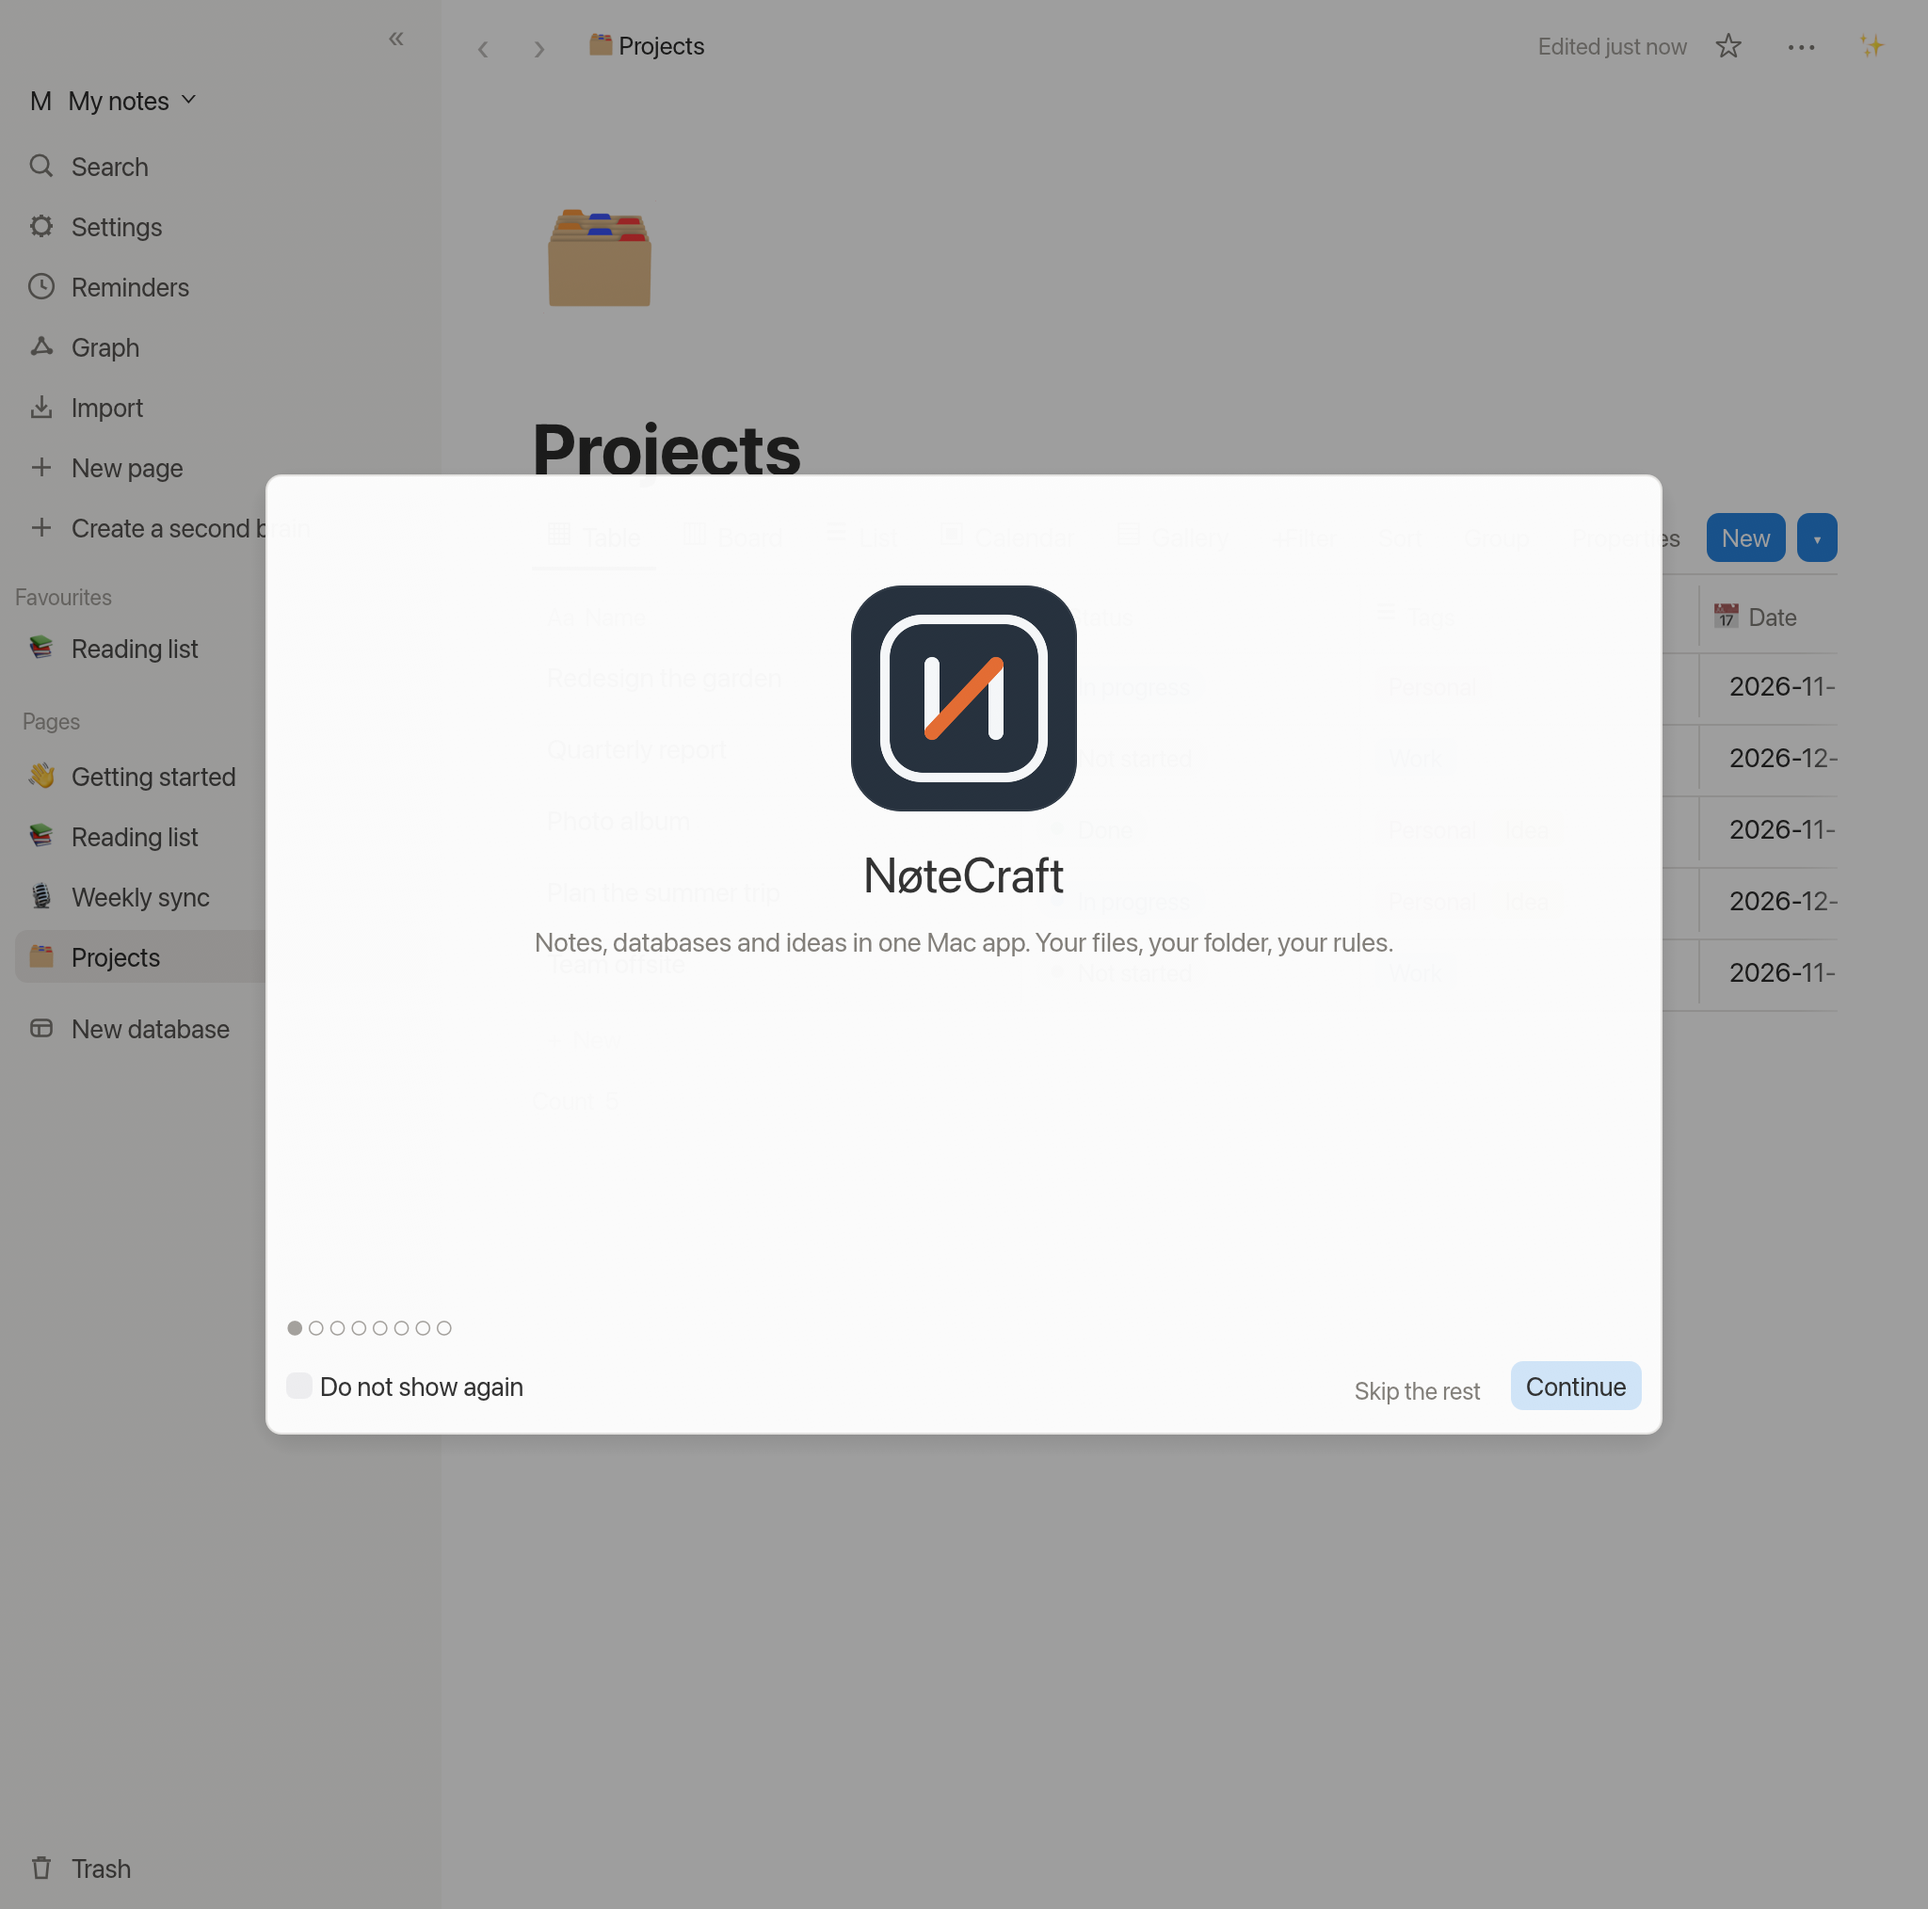
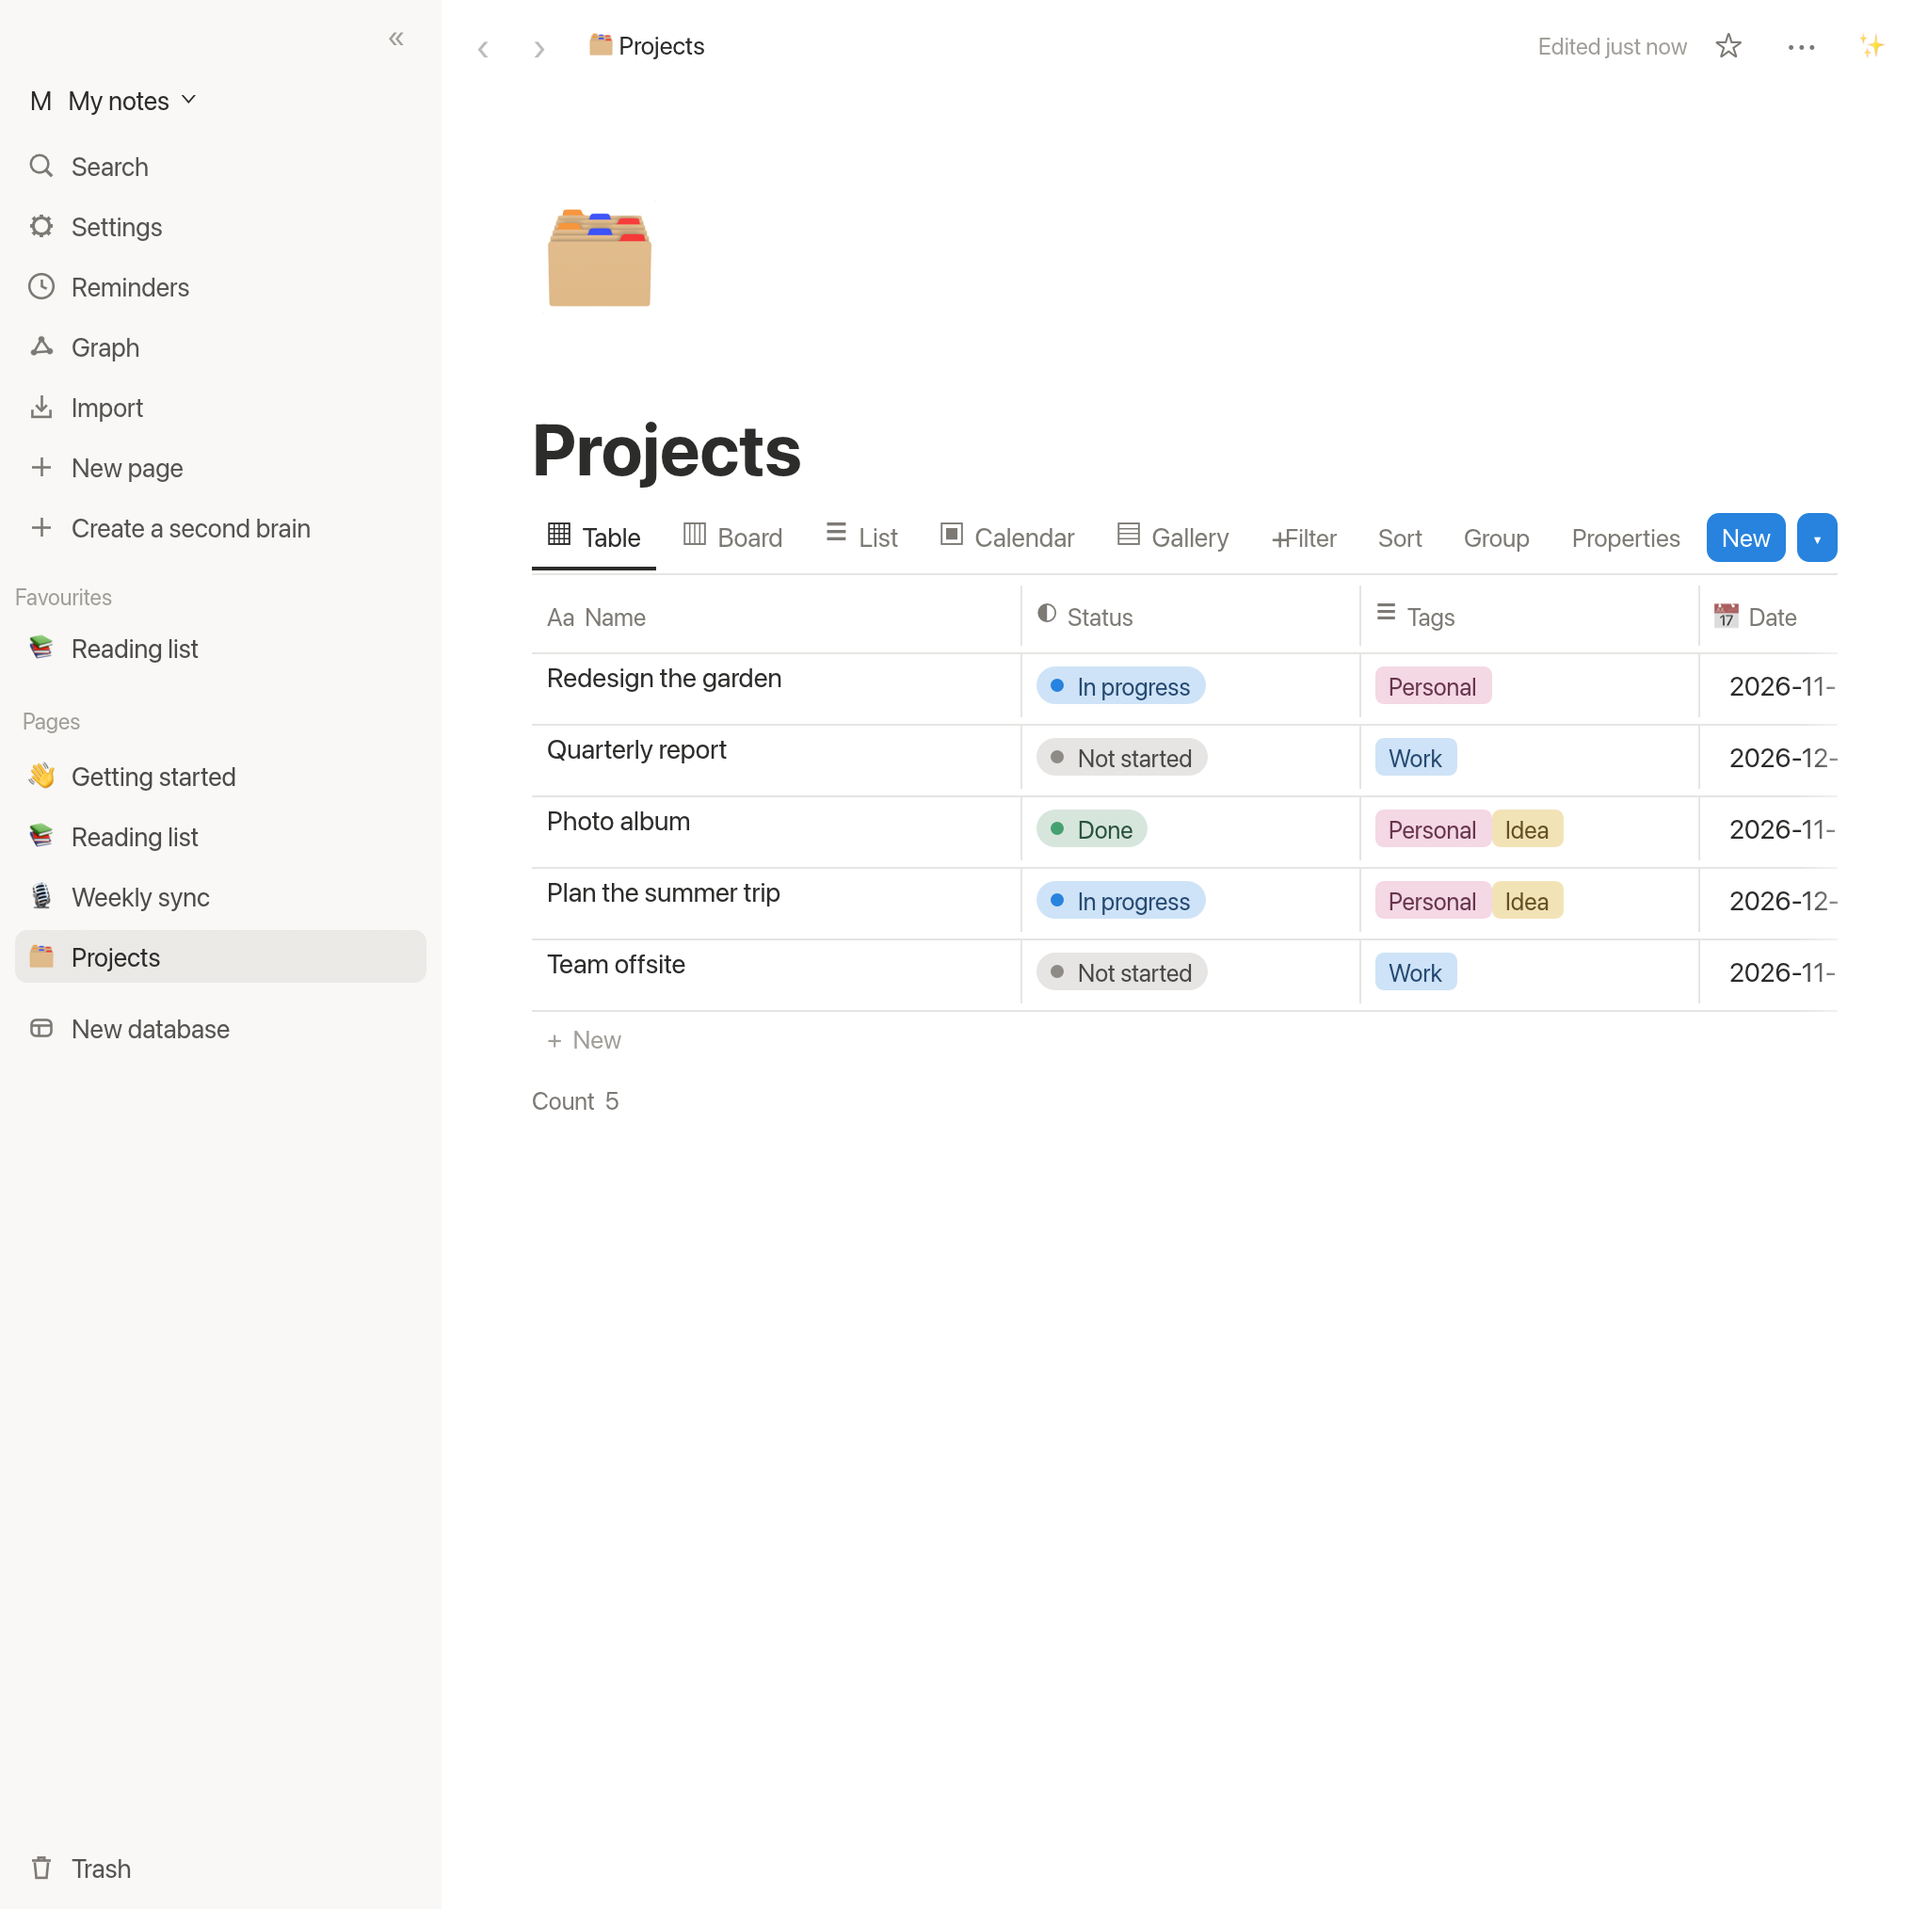
No demo window over the screenshots; refresh pictures
Claude-Session: https://claude.ai/code/session_01UT5uZnpVKoRxBN9KsMmZsN

diff --git a/crates/notecraft-app/src/demo.rs b/crates/notecraft-app/src/demo.rs
@@ -197,7 +197,12 @@ impl crate::app::NcApp {
     /// It opens by itself once the workspace is open, until the person asks not to see it again.
     pub(crate) fn demo_window(&mut self, ctx: &eframe::egui::Context) {
         use eframe::egui::{self, RichText, Vec2};
-        if self.demo_at.is_none() && !self.demo_auto_done && self.ws.is_some() && !self.prefs.demo_seen {
+        if self.demo_at.is_none()
+            && !self.demo_auto_done
+            && self.ws.is_some()
+            && !self.prefs.demo_seen
+            && self.shot.is_none()
+        {
             self.demo_auto_done = true;
             self.demo_at = Some(0);
         }
